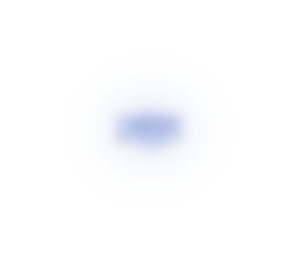
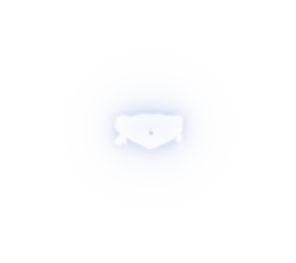
999lite v.2

Changed region(s): [[0.3953, 0.4259, 0.6385, 0.5779]]

diff --git a/index.html b/index.html
@@ -976,7 +976,7 @@ const LED=(()=>{const Zs={},names=Object.keys(LED_BOX).concat(['head','hand']);l
    if(rot&&(n==='left'||n==='right'||n==='top')){if(rot===2){L=Math.max(L,1);hue=rotHue[n];sat=1}else if(rot===3){const vt=curPlay?curPlay.v.currentTime:t,dl=n==='left'?0:n==='top'?.014:.028;if((((vt-dl)%.0833)+.0833)%.0833<.034)L=.02}else L=.02}   // 종류 3: 전부 켜진 채 1/30초 꺼짐이 초당 12번, 왼쪽→상단→오른쪽 순으로 아주 빠르게 지나감(실측)   // 무지개: 바탕도 전부 켜고 색만 바뀜 / 오른쪽 노림: 바탕은 끄고 켜진 구간만 표시
    L=Math.min(1.5,L+kick);
    const z=Zs[n];if(!z){if(ov==null||fix[n]!=null)parts(n,L,hue,sat);continue}
-   const oc=Math.min(1,L)*(1-.15*sat),ob=Math.min(1,L*(window.QKDARK?.36:.3))*(1-.3*sat),ot=sat*Math.min(1,L),   /* 색이 진할수록 흰 바탕을 조금 낮춰 색이 덜 바래 보이게 */ok_=L<.3?(.3-L)/.3*.45:0;if(Math.abs(ok_-z.lk)>.004){z.lk=ok_;z.k.style.opacity=ok_.toFixed(3)}
+   const oc=Math.min(1,L)*(1-.15*sat),ob=Math.min(1,L*(window.QKDARK?.95:.35))*(1-.2*sat),ot=sat*Math.min(1,L),   /* 색이 진할수록 흰 바탕을 조금 낮춰 색이 덜 바래 보이게 */ok_=L<.3?(.3-L)/.3*.45:0;if(Math.abs(ok_-z.lk)>.004){z.lk=ok_;z.k.style.opacity=ok_.toFixed(3)}
    const q=sat>0?hue*8+Math.round(sat*7):-1;
    if(q!==z.q){z.q=q;if(q<0)z.b.col(DEF[n]||'#d4e2ff');else{z.t.col('hsl('+hue+',100%,55%)');z.b.col('hsl('+hue+','+Math.round(sat*100)+'%,'+Math.round(88-sat*40)+'%)')}}
    if(Math.abs(oc-z.lc)>.004){z.lc=oc;z.c.style.opacity=oc.toFixed(3)}if(Math.abs(ob-z.lb)>.004){z.lb=ob;z.b.style.opacity=ob.toFixed(3)}if(Math.abs(ot-z.lt)>.004){z.lt=ot;z.t.style.opacity=ot.toFixed(3)}}}
@@ -1660,7 +1660,7 @@ html.lightm .led:not(.b):not(.t){filter:brightness(1.1) contrast(1.1)}
 html.lightm #view{box-shadow:0 14px 34px rgba(0,0,0,.38),0 0 0 1px rgba(0,0,0,.25)}
 html.lightm #panel,html.lightm #panel2{background:var(--panel);box-shadow:0 6px 20px rgba(0,0,0,.3)}
 html:not(.lightm) #frameImg.dim{filter:brightness(.42)}
-#qkFl{position:absolute;z-index:10;pointer-events:none;display:none;filter:brightness(.8)}html:not(.lightm) #qkFl{display:block}   /* 다크: 꽃 자리만 라이트 모드 밝기의 사진을 한 장 더 깔아서 어두워지지 않게 */   /* 다크: 기기 사진만 조금 어둡게(기본 .64). LED 는 위에 따로 겹쳐 그려서 영향 없음 */
+#qkFl{position:absolute;z-index:10;pointer-events:none;display:none;filter:brightness(.68)}html:not(.lightm) #qkFl{display:block}   /* 다크: 꽃 자리만 라이트 모드 밝기의 사진을 한 장 더 깔아서 어두워지지 않게 */   /* 다크: 기기 사진만 조금 어둡게(기본 .64). LED 는 위에 따로 겹쳐 그려서 영향 없음 */
 html:not(.lightm),html:not(.lightm) body{background:radial-gradient(ellipse at 50% 45%,#0b0a0f 0%,#020203 70%) fixed!important}
 html:not(.lightm) #view{overflow:hidden;box-shadow:0 0 60px 4px hsla(var(--glh,350),var(--gls,80%),62%,var(--gla,.3)),0 0 240px 70px hsla(var(--glh,350),var(--gls,80%),55%,calc(var(--gla,.3)*.5));transition:box-shadow .25s linear}
 html.lightm #qk button{background:rgba(255,255,255,.75);border-color:#999;color:#222}
